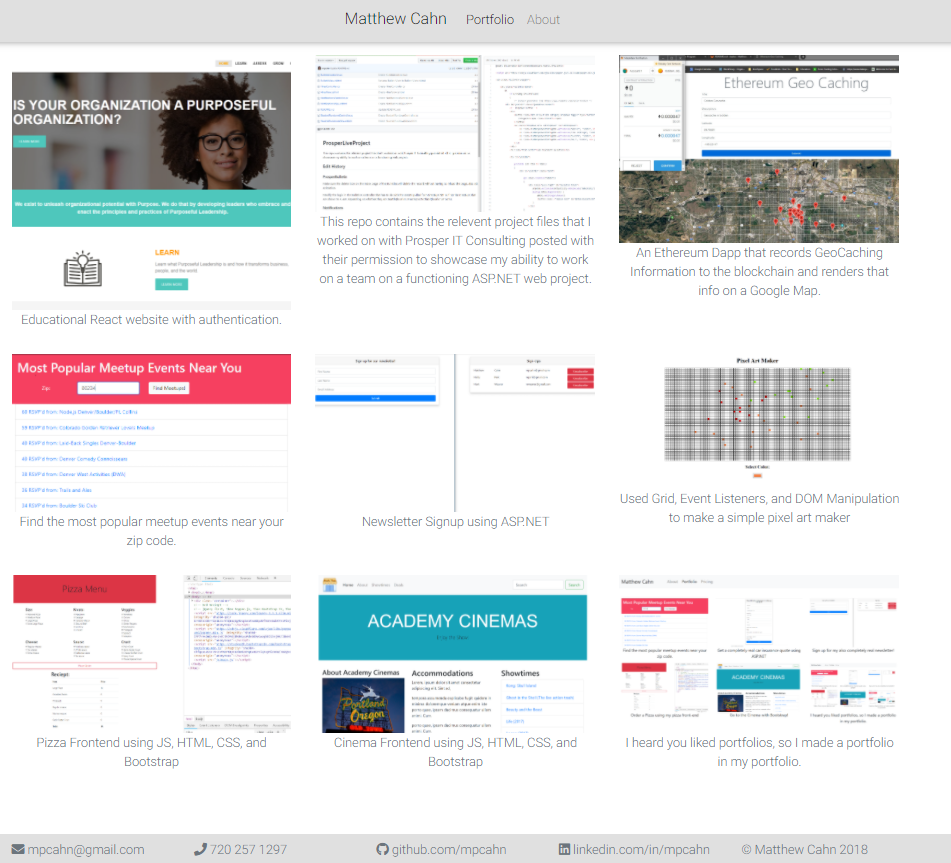
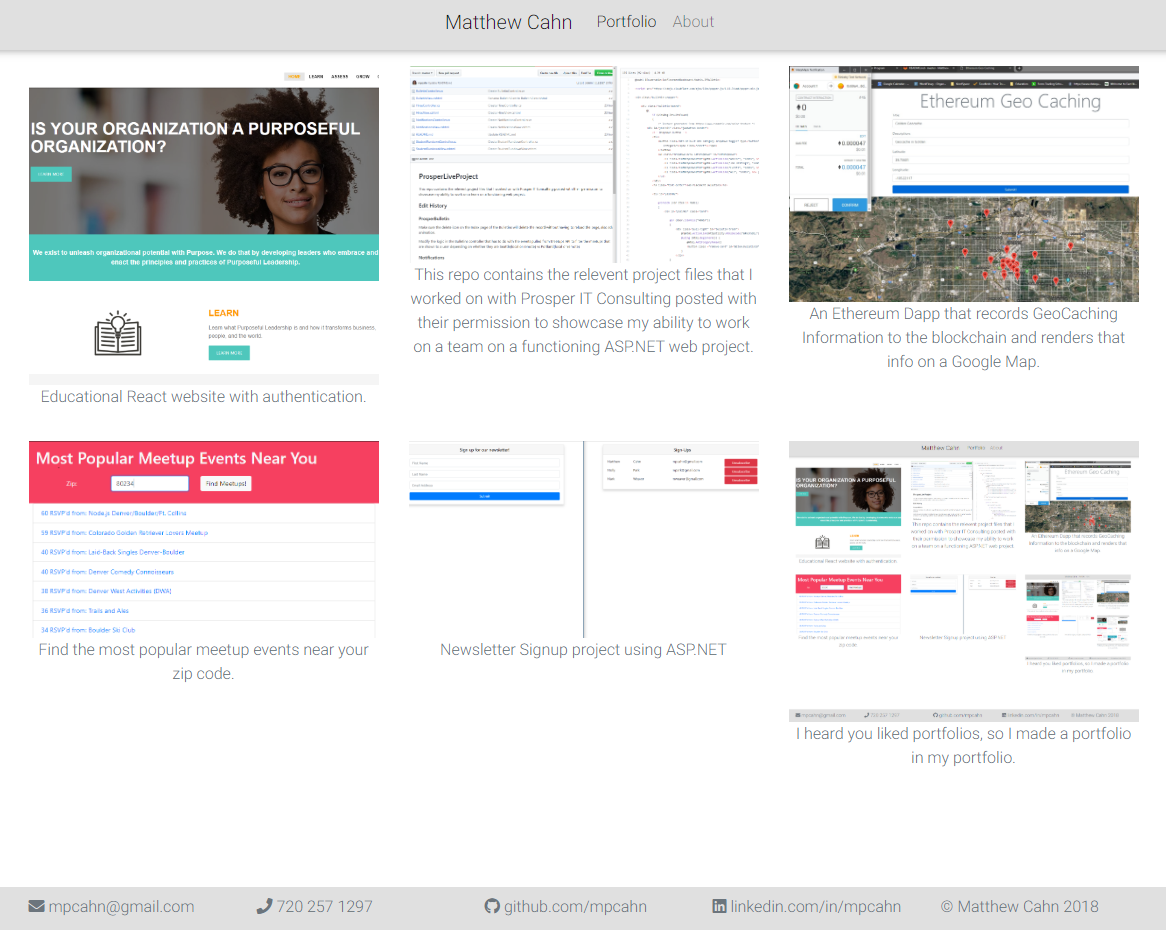
update portfolio

diff --git a/index.html b/index.html
@@ -105,44 +105,8 @@
       <div class="col-md-4 col-sm-6 mb-3">
         <div class="view overlay">
           <img src="img/Newsletter.png" alt="Newsletter Screenshot">
-          <p>Newsletter Signup using ASP.NET</p>
+          <p>Newsletter Signup project using ASP.NET</p>
           <a href="https://github.com/mpcahn/NewsletterAppMVC" target="_blank">
-            <div class="mask flex-center rgba-red-strong">
-              <p class="white-text">View on Github</p>
-            </div>
-          </a>
-        </div>
-      </div>
-
-      <div class="col-md-4 col-sm-6 mb-3">
-        <div class="view overlay">
-          <img src="img/pixelArt.png" alt="Pixel Art Screenshot">
-          <p>Used Grid, Event Listeners, and DOM Manipulation to make a simple pixel art maker</p>
-          <a href="https://github.com/mpcahn/pixel-art-maker" target="_blank">
-            <div class="mask flex-center rgba-red-strong">
-              <p class="white-text">View on Github</p>
-            </div>
-          </a>
-        </div>
-      </div>
-
-      <div class="col-md-4 col-sm-6 mb-3">
-        <div class="view overlay">
-          <img src="img/Pizza.png" alt="Pizza Screenshot">
-          <p>Pizza Frontend using JS, HTML, CSS, and Bootstrap</p>
-          <a href="https://github.com/mpcahn/pizza" target="_blank">
-            <div class="mask flex-center rgba-red-strong">
-              <p class="white-text">View on Github</p>
-            </div>
-          </a>
-        </div>
-      </div>
-
-      <div class="col-md-4 col-sm-6 mb-3">
-        <div class="view overlay">
-          <img src="img/Cinema.png" alt="Cinema Screenshot">
-          <p>Cinema Frontend using JS, HTML, CSS, and Bootstrap</p>
-          <a href="https://github.com/mpcahn/Cinema" target="_blank">
             <div class="mask flex-center rgba-red-strong">
               <p class="white-text">View on Github</p>
             </div>
